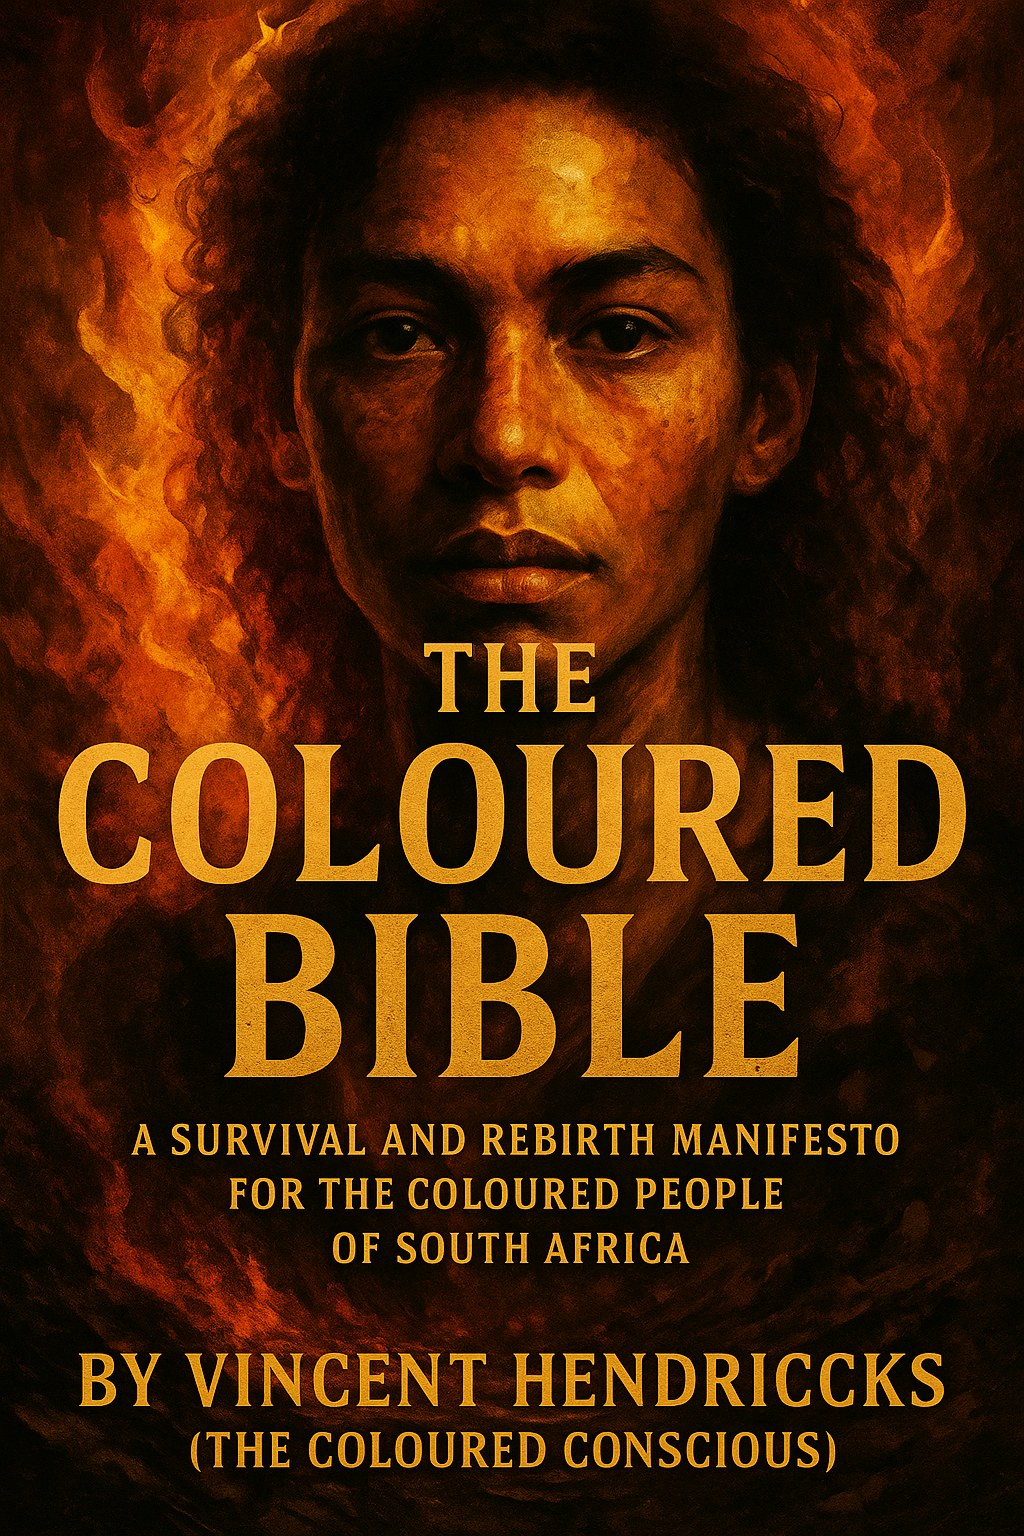
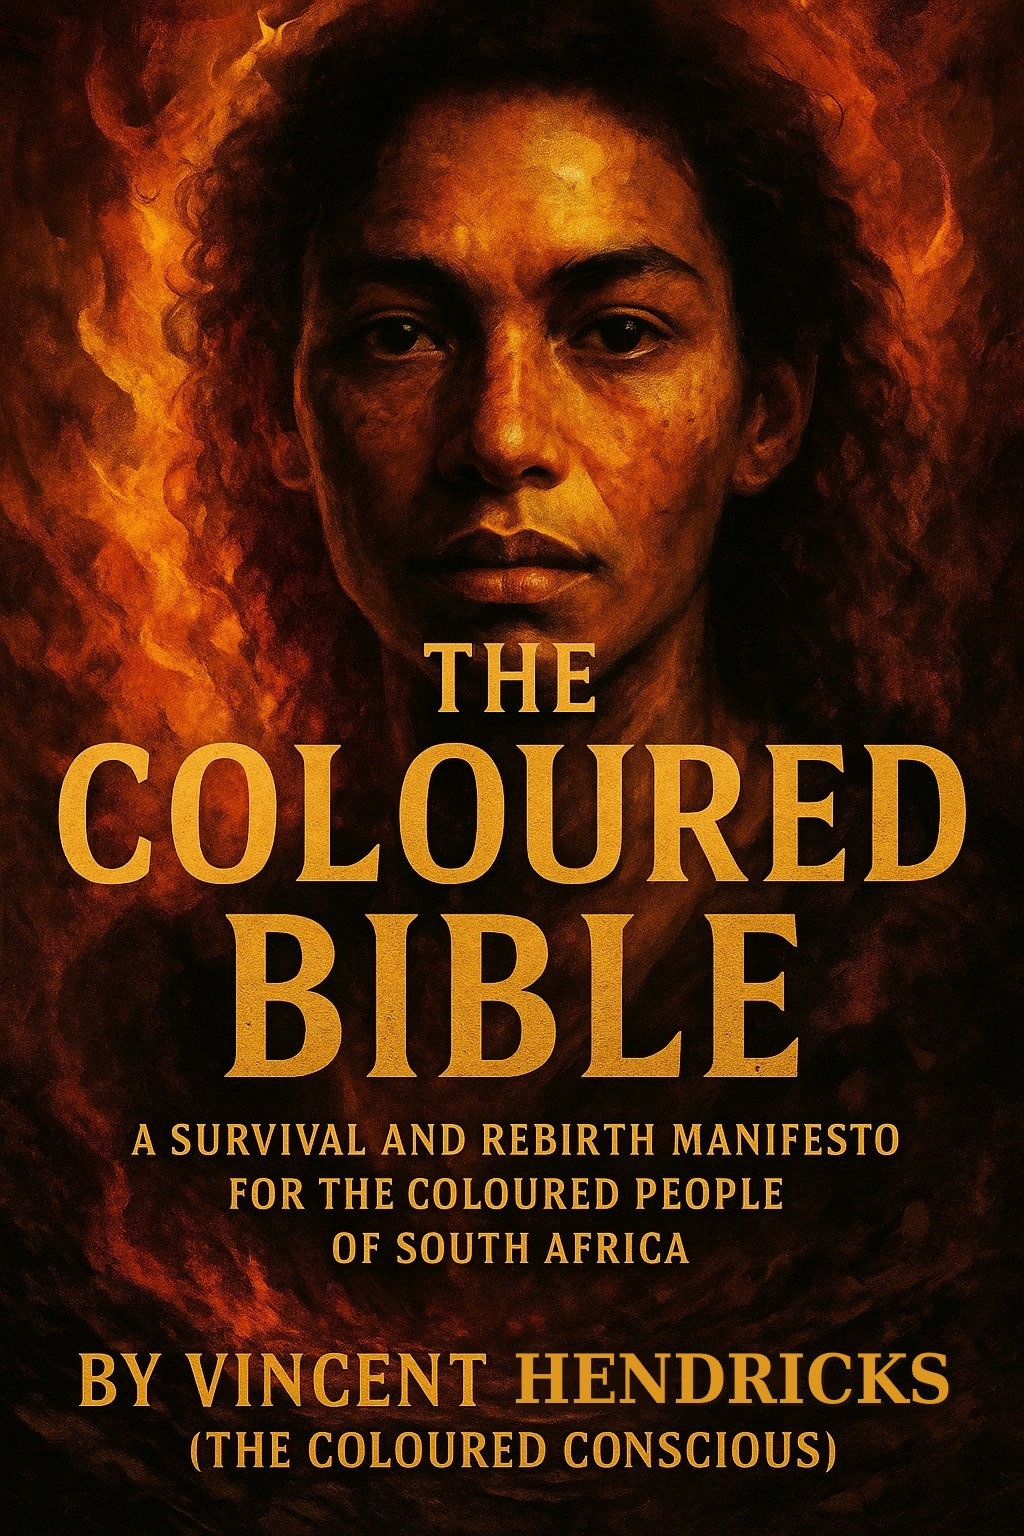
Add files via upload

diff --git a/index.html b/index.html
@@ -355,6 +355,8 @@
   .modal .actions .chrome-btn.primary { background:var(--accent); color:#fff; border-color:var(--accent); font-weight:700; }
   .modal .actions .chrome-btn.primary:hover { background:var(--accent-light); }
   .file-btn { font-family:'Inter', sans-serif; font-size:12px; color:var(--accent); text-decoration:underline; cursor:pointer; }
+.load-status { font-family:'Inter', sans-serif; font-size:11.5px; color:#a9906a; min-height:14px; }
+.load-status.error { color:#b5432f; }
 
   @media (prefers-reduced-motion: reduce) {
     .flip-leaf.animating { transition: none !important; }
@@ -463,9 +465,10 @@
       <input type="text" id="authorInput" placeholder="e.g. Frances Hodgson Burnett">
       <label for="textInput">Paste the text, or</label>
       <div class="row">
-        <span class="file-btn" id="fileTrigger">upload a .txt file</span>
-        <input type="file" id="fileInput" accept=".txt" style="display:none;">
+        <span class="file-btn" id="fileTrigger">upload a .txt or .docx file</span>
+        <input type="file" id="fileInput" accept=".txt,.docx" style="display:none;">
       </div>
+      <div class="load-status" id="loadStatus" aria-live="polite"></div>
       <textarea id="textInput" placeholder="Paste the full text of the book here. Separate paragraphs with a blank line."></textarea>
       <div class="actions">
         <button class="chrome-btn" id="cancelLoad">Cancel</button>
@@ -474,6 +477,7 @@
     </div>
   </div>
 
+<script src="https://cdn.jsdelivr.net/npm/mammoth@1.7.0/mammoth.browser.min.js"></script>
 <script>
 (function(){
   "use strict";
@@ -1164,6 +1168,39 @@
     updateNarrationButton();
   }
 
+  // Web Speech API doesn't expose accent or gender directly — only whatever
+  // voices the device/browser happens to have installed, each with a name
+  // and a language tag. Until real voice cloning is wired up, this picks
+  // the closest available match: prefer a South African English/Afrikaans
+  // voice, and within that (or as a fallback across any English voice),
+  // prefer one whose name suggests a male voice, using the common names
+  // each platform (Chrome/Android, Edge/Windows, Safari/macOS) ships.
+  function pickNarrationVoice(){
+    if (!window.speechSynthesis) return null;
+    var voices = window.speechSynthesis.getVoices() || [];
+    if (!voices.length) return null;
+    var maleNames = ["male", "david", "daniel", "george", "james", "mark", "fred", "arthur", "oliver", "guy", "ryan", "thabo", "sipho", "will"];
+    function score(v){
+      var name = (v.name || "").toLowerCase();
+      var lang = (v.lang || "").toLowerCase();
+      var s = 0;
+      if (lang === "en-za") s += 100;
+      else if (lang === "af-za" || lang === "af") s += 90;
+      else if (lang.indexOf("za") !== -1) s += 60;
+      else if (lang.indexOf("en") === 0) s += 10;
+      for (var i=0;i<maleNames.length;i++){
+        if (name.indexOf(maleNames[i]) !== -1){ s += 20; break; }
+      }
+      return s;
+    }
+    var best = null, bestScore = -1;
+    voices.forEach(function(v){
+      var s = score(v);
+      if (s > bestScore){ bestScore = s; best = v; }
+    });
+    return best;
+  }
+
   function speakCurrentPage(){
     if (!window.speechSynthesis){
       narration.active = false;
@@ -1175,7 +1212,10 @@
     if (!text){ stopNarration(); return; }
     var utt = new SpeechSynthesisUtterance(text);
     utt.rate = 0.95;
+    utt.pitch = 0.85; // nudges a default voice toward a deeper, more male-leaning tone
     utt.lang = "en-ZA"; // hint only — falls back gracefully if unavailable
+    var voice = pickNarrationVoice();
+    if (voice) utt.voice = voice;
     utt.onend = function(){
       if (!narration.active) return;
       var t = computeTarget(state.current, 1, state.pageCount, state.pages.length);
@@ -1435,16 +1475,65 @@
     if (narration.active) stopNarration();
     $("titleInput").value = state.title;
     $("authorInput").value = state.author;
+    setLoadStatus("", false);
     modalBackdrop.classList.add("open");
   });
   $("cancelLoad").addEventListener("click", function(){ modalBackdrop.classList.remove("open"); });
+  var loadStatus = $("loadStatus");
+  function setLoadStatus(msg, isError){
+    loadStatus.textContent = msg || "";
+    loadStatus.classList.toggle("error", !!isError);
+  }
   $("fileTrigger").addEventListener("click", function(){ $("fileInput").click(); });
   $("fileInput").addEventListener("change", function(e){
     var file = e.target.files[0];
     if (!file) return;
-    var reader = new FileReader();
-    reader.onload = function(ev){ $("textInput").value = ev.target.result; };
-    reader.readAsText(file);
+    var name = file.name || "";
+    var isDocx = /\.docx$/i.test(name);
+    setLoadStatus("Reading " + name + "\u2026", false);
+
+    if (isDocx){
+      if (!window.mammoth){
+        setLoadStatus("Could not load the .docx reader (are you offline?). Try again, or paste the text instead.", true);
+        return;
+      }
+      var reader = new FileReader();
+      reader.onerror = function(){ setLoadStatus("Couldn't read that file. Try again, or paste the text instead.", true); };
+      reader.onload = function(ev){
+        // Convert to HTML rather than mammoth's plain "raw text" mode: this
+        // gives us one <p> (or heading) per real Word paragraph, so we can
+        // rebuild clean blank-line-separated paragraphs ourselves instead of
+        // trusting how mammoth joins raw text internally.
+        window.mammoth.convertToHtml({ arrayBuffer: ev.target.result })
+          .then(function(result){
+            var doc = new DOMParser().parseFromString(result.value, "text/html");
+            var blocks = doc.body.querySelectorAll("p, h1, h2, h3, h4, h5, h6, li");
+            var paras = [];
+            blocks.forEach(function(el){
+              var t = el.textContent.replace(/\s+/g, " ").trim();
+              if (t) paras.push(t);
+            });
+            if (!paras.length){
+              setLoadStatus("That .docx file looks empty once the formatting is stripped out.", true);
+              return;
+            }
+            $("textInput").value = paras.join("\n\n");
+            setLoadStatus(name + " loaded (" + paras.length + " paragraphs). Review the text below, then tap Open book.", false);
+          })
+          .catch(function(){
+            setLoadStatus("Couldn't read that .docx file. It may be corrupted, password-protected, or a .doc (old format) file — try re-saving it as .docx, or paste the text instead.", true);
+          });
+      };
+      reader.readAsArrayBuffer(file);
+    } else {
+      var txtReader = new FileReader();
+      txtReader.onerror = function(){ setLoadStatus("Couldn't read that file. Try again, or paste the text instead.", true); };
+      txtReader.onload = function(ev){
+        $("textInput").value = ev.target.result;
+        setLoadStatus(name + " loaded. Review the text below, then tap Open book.", false);
+      };
+      txtReader.readAsText(file);
+    }
   });
   $("confirmLoad").addEventListener("click", function(){
     var text = $("textInput").value.trim();
